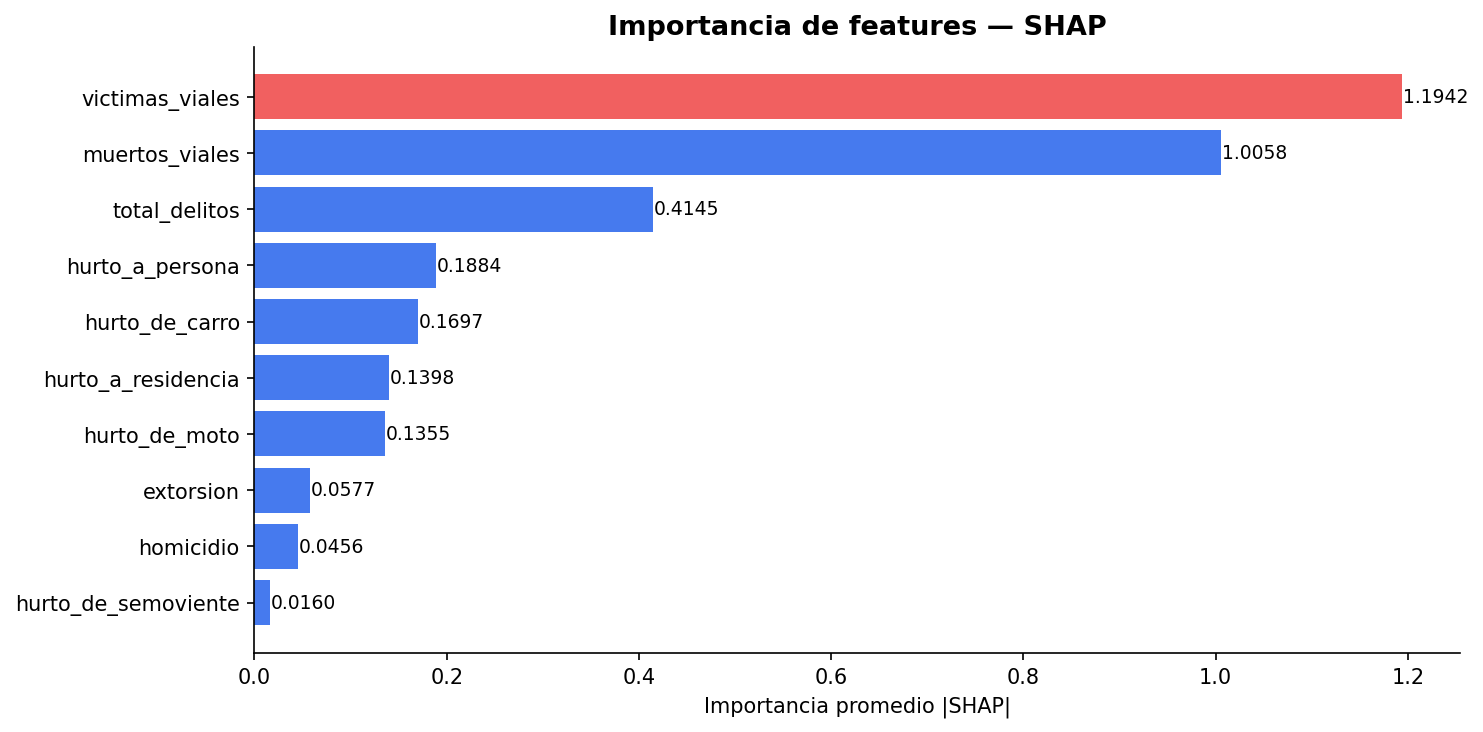
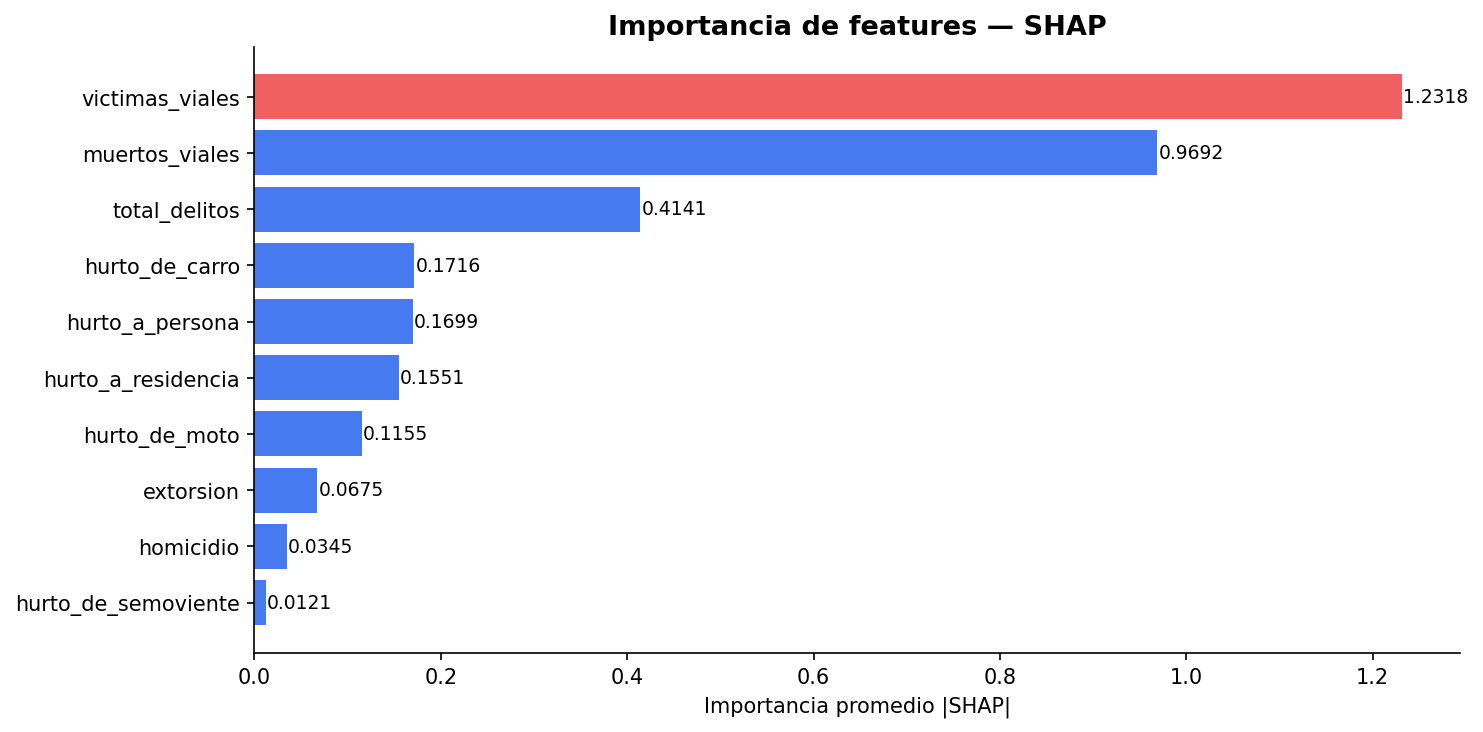
docs: guia de usuario actualizada

diff --git a/docs/guia_usuario.md b/docs/guia_usuario.md
@@ -1,0 +1,172 @@
+# Guía de Usuario — MedellínVive
+
+## ¿Qué es este sistema?
+
+MedellínVive permite explorar datos de criminalidad e incidentes viales de las 16 comunas de Medellín, y hacer preguntas en lenguaje natural sobre ellos usando Inteligencia Artificial.
+
+Para ver el sistema en acción antes de instalarlo: [ Video Demo](https://youtu.be/_XIa7Wb7RyE)
+
+---
+
+## Requisitos previos
+
+- Python 3.13+
+- Cuenta gratuita en [groq.com](https://groq.com)
+- Git instalado
+
+---
+
+## Instalación paso a paso
+
+**1. Clonar el repositorio**
+
+```bash
+git clone https://github.com/kevinqzg/ProyectoFinal_IA.git
+cd ProyectoFinal_IA
+```
+
+**2. Crear entorno virtual**
+
+```bash
+python3 -m venv venv
+source venv/bin/activate
+```
+
+**3. Instalar dependencias**
+
+```bash
+pip install -r requirements.txt
+```
+
+**4. Configurar API key de Groq**
+
+- Ir a [groq.com](https://groq.com) → crear cuenta gratuita → API Keys → Create API Key
+- Crear archivo `.env` en la raíz del proyecto con este contenido:
+
+```
+GROQ_API_KEY=tu_api_key_aqui
+```
+
+**5. Descargar los datasets**
+
+- Descargar desde [Google Drive](https://drive.google.com/drive/folders/140SgmuC5wX05UDEZ-vrpldmsWGR0jQE-)
+- Ubicarlos en `data/raw/` con esta estructura:
+
+```
+data/raw/
+├── consolidado_cantidad_casos_criminalidad_en_comunas_por_anio.csv
+└── Mede_Victimas_inci.csv
+```
+
+---
+
+## Cómo ejecutar el proyecto
+
+```bash
+jupyter notebook
+```
+
+Se abrirá el navegador con la lista de notebooks. Ejecutarlos en este orden:
+
+---
+
+## Notebook 1 — EDA (`01_eda.ipynb`)
+
+Analiza y visualiza los datos de criminalidad e incidentes viales de Medellín.
+
+**Qué hace:**
+- Carga y cruza los datasets de MEData por comuna y año
+- Genera 8 visualizaciones: heatmap de criminalidad, evolución por año, distribución de la variable objetivo, correlaciones entre features, top comunas más peligrosas
+- Analiza valores nulos (resultado: 0 nulos) y outliers por método IQR
+- Guarda todas las figuras en `reports/figures/`
+
+**Cómo correrlo:** abrir el notebook y hacer click en `Kernel → Restart & Run All`
+
+---
+
+## Notebook 2 — Modelado (`02_modeling.ipynb`)
+
+Entrena y evalúa los modelos de Machine Learning para predecir el nivel de bienestar por comuna.
+
+**Qué hace:**
+- Divide el dataset en train/validación/test con proporción 70/15/15
+- Entrena 4 modelos en orden: Baseline → Árbol de decisión → Random Forest → XGBoost
+- Genera tabla comparativa de métricas y gráfica de comparación
+- Calcula importancia de features con SHAP
+
+**Resultados obtenidos:**
+
+| Modelo | Accuracy | F1-macro | AUC-ROC |
+|---|---|---|---|
+| Baseline | 0.353 | 0.174 | 0.500 |
+| Árbol de decisión | 0.824 | 0.817 | 0.968 |
+| Random Forest | 0.941 | 0.939 | 0.989 |
+| XGBoost | 0.941 | 0.937 | 0.973 |
+
+**Cómo correrlo:** abrir el notebook y hacer click en `Kernel → Restart & Run All`
+
+---
+
+## Notebook 3 — RAG (`03_rag.ipynb`)
+
+Sistema de preguntas y respuestas en lenguaje natural sobre los datos de las comunas.
+
+**Qué hace:**
+- Indexa todos los datos del dataset maestro en ChromaDB
+- Genera embeddings con el modelo BAAI/bge-m3 de HuggingFace
+- Conecta con LLaMA 3.1 vía Groq API para generar respuestas
+- Permite hacer preguntas en español sobre cualquier comuna y año
+
+**Cómo correrlo:**
+1. Verificar que el archivo `.env` existe con el `GROQ_API_KEY`
+2. Abrir el notebook
+3. Hacer click en `Kernel → Restart & Run All`
+4. Ir a la última celda e ingresar tu pregunta
+
+**Ejemplos de preguntas:**
+
+```
+¿Cuál fue la comuna con más delitos en 2020?
+→ "La comuna con más delitos en 2020 fue la comuna 10 con 9364 delitos."
+
+¿Cómo evolucionó la accidentalidad vial en la comuna 10 entre 2015 y 2021?
+→ "En 2015 se registraron 63 muertos en incidentes viales.
+   En 2021, 41 muertos. La accidentalidad disminuyó en ese periodo."
+
+¿Qué comunas tuvieron nivel de bienestar BAJO en 2019?
+→ "Las comunas con nivel BAJO en 2019 fueron:
+   Comuna 4 con índice de bienestar de -0.4419..."
+
+¿En qué año tuvo la comuna 13 su mejor índice de bienestar?
+→ "El mejor índice de bienestar de la comuna 13 fue en 2020
+   con un valor de 0.7918."
+```
+
+---
+
+## Solución de problemas comunes
+
+**Error: `GROQ_API_KEY not found`**
+Verificar que el archivo `.env` existe en la raíz del proyecto y que la key está escrita correctamente sin espacios.
+
+**Error al instalar dependencias**
+Asegurarse de tener el entorno virtual activado antes de correr `pip install -r requirements.txt`.
+
+**Los notebooks no encuentran los datos**
+Verificar que los CSVs están en `data/raw/` con los nombres exactos indicados arriba.
+
+**ChromaDB tarda mucho en la primera ejecución**
+Es normal — está generando los embeddings de todos los registros. Las ejecuciones siguientes son más rápidas porque usa la base de datos en caché.
+
+---
+
+## Equipo
+
+| Integrante | Correo | Rol |
+|---|---|---|
+| Kevin Quiroz González | kquirozg@eafit.edu.co | EDA, preprocesamiento, modelado |
+| Carlos Alberto Mazo Gil | camazog1@eafit.edu.co | RAG, evaluación, informe |
+
+---
+
+*Proyecto académico — Inteligencia Artificial, Universidad EAFIT 2026-1*
